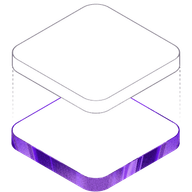
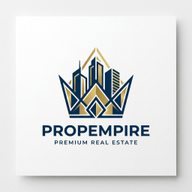
Updates

diff --git a/index.html b/index.html
@@ -5,7 +5,7 @@
     <link rel="icon" type="image/svg+xml" href="/PropEmpire-/favicon.svg" />
     <meta name="viewport" content="width=device-width, initial-scale=1.0" />
     <title>propempire</title>
-    <script type="module" crossorigin src="/PropEmpire-/assets/index-aAkGoeAZ.js"></script>
+    <script type="module" crossorigin src="/PropEmpire-/assets/index-5_qt0WRe.js"></script>
     <link rel="stylesheet" crossorigin href="/PropEmpire-/assets/index-CzrVTBBx.css">
   <link rel="manifest" href="/PropEmpire-/manifest.webmanifest"></head>
   <body>

diff --git a/sw.js b/sw.js
@@ -1,1 +1,1 @@
-if(!self.define){let e,s={};const i=(i,n)=>(i=new URL(i+".js",n).href,s[i]||new Promise(s=>{if("document"in self){const e=document.createElement("script");e.src=i,e.onload=s,document.head.appendChild(e)}else e=i,importScripts(i),s()}).then(()=>{let e=s[i];if(!e)throw new Error(`Module ${i} didn’t register its module`);return e}));self.define=(n,r)=>{const o=e||("document"in self?document.currentScript.src:"")||location.href;if(s[o])return;let t={};const l=e=>i(e,o),u={module:{uri:o},exports:t,require:l};s[o]=Promise.all(n.map(e=>u[e]||l(e))).then(e=>(r(...e),t))}}define(["./workbox-9c191d2f"],function(e){"use strict";self.skipWaiting(),e.clientsClaim(),e.precacheAndRoute([{url:"index.html",revision:"6bf1dd55631cb985d0c1e1e1ed8f6099"},{url:"assets/workbox-window.prod.es5-Bd17z0YL.js",revision:null},{url:"assets/purify.es-6-uFcs4-.js",revision:null},{url:"assets/index.es-D4eI1HNd.js",revision:null},{url:"assets/index-CzrVTBBx.css",revision:null},{url:"assets/index-aAkGoeAZ.js",revision:null},{url:"pwa-192x192.png",revision:"5169514c0098ed5a6357f685c1ce4aec"},{url:"pwa-512x512.png",revision:"6bda14c3f9f76ee5e094a1d191bdb0c4"},{url:"manifest.webmanifest",revision:"82974245a0aa61a2db54cb354e53ef96"}],{}),e.cleanupOutdatedCaches(),e.registerRoute(new e.NavigationRoute(e.createHandlerBoundToURL("index.html")))});
+if(!self.define){let e,s={};const i=(i,n)=>(i=new URL(i+".js",n).href,s[i]||new Promise(s=>{if("document"in self){const e=document.createElement("script");e.src=i,e.onload=s,document.head.appendChild(e)}else e=i,importScripts(i),s()}).then(()=>{let e=s[i];if(!e)throw new Error(`Module ${i} didn’t register its module`);return e}));self.define=(n,r)=>{const o=e||("document"in self?document.currentScript.src:"")||location.href;if(s[o])return;let t={};const l=e=>i(e,o),u={module:{uri:o},exports:t,require:l};s[o]=Promise.all(n.map(e=>u[e]||l(e))).then(e=>(r(...e),t))}}define(["./workbox-9c191d2f"],function(e){"use strict";self.skipWaiting(),e.clientsClaim(),e.precacheAndRoute([{url:"index.html",revision:"009106bd2358fb2ecb8b8f201d466301"},{url:"assets/workbox-window.prod.es5-Bd17z0YL.js",revision:null},{url:"assets/purify.es-6-uFcs4-.js",revision:null},{url:"assets/index.es-B5ShSmVz.js",revision:null},{url:"assets/index-CzrVTBBx.css",revision:null},{url:"assets/index-5_qt0WRe.js",revision:null},{url:"pwa-192x192.png",revision:"b0c6533770e93d8346e378d86d247850"},{url:"pwa-512x512.png",revision:"3ab95ea15804a2303cb949071dbae4d1"},{url:"manifest.webmanifest",revision:"82974245a0aa61a2db54cb354e53ef96"}],{}),e.cleanupOutdatedCaches(),e.registerRoute(new e.NavigationRoute(e.createHandlerBoundToURL("index.html")))});